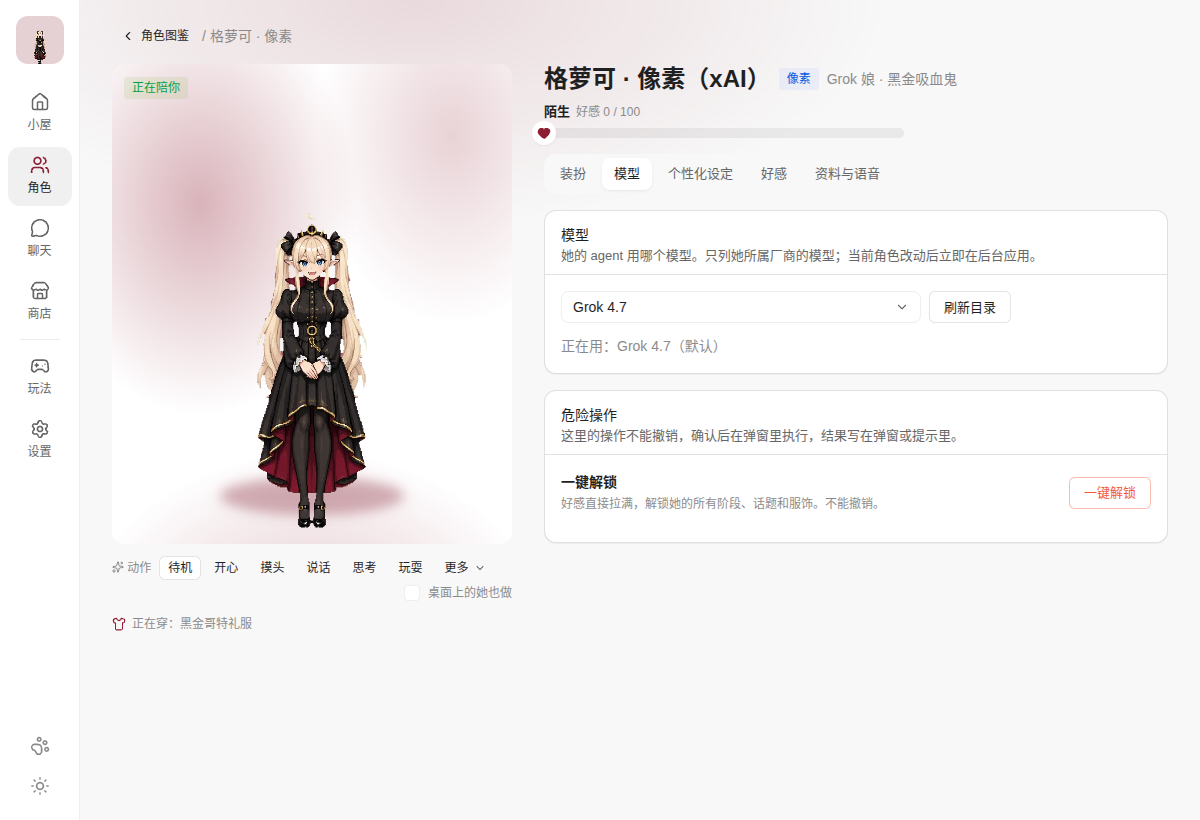
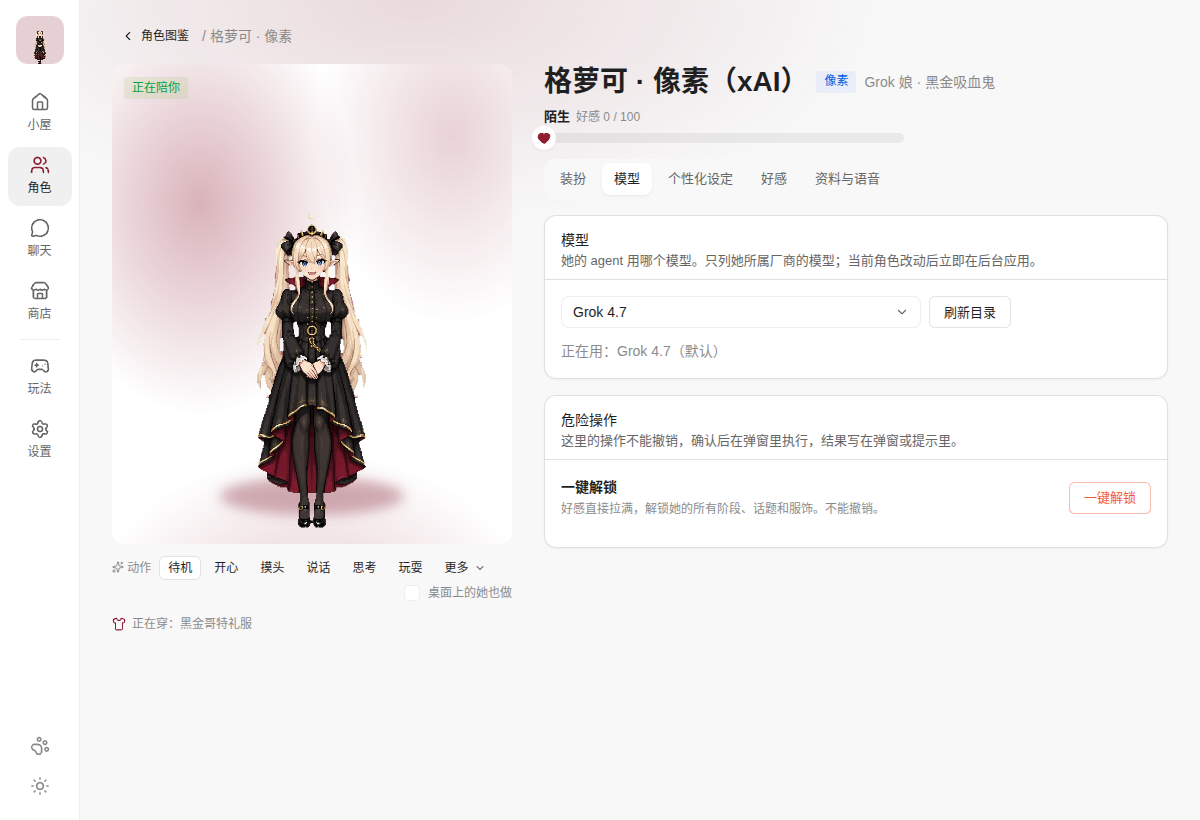
📸 docs(admin-audit): 实施包 B 改后截图按 28px 标题重拍，03-changes 同步（T-2819）

diff --git a/docs/admin-audit/03-changes.md b/docs/admin-audit/03-changes.md
@@ -16,7 +16,7 @@
 | --- | --- | --- | --- | --- |
 | B01 | 对象模型「角色（base）→ 形象（角色包）→ 服饰」：`groupRoster` 把每套形象一行的 roster 收成每位角色一组；全窗口计数统一「N 位角色 · M 套形象」（`countLabel` / `metCount`）；图鉴**一位角色一张卡**（卡片右上「N 套形象」），她的其他形象在详情 → 装扮 → 新增的「形象」区（`LookPicker`，每套一张小卡，链接到那套的页面）；商店提示改为「还有 N 套形象可以下载」；角色包页标题「5 位角色 · 17 套形象（导入 0 套；含 4 套 18+，没开成人向内容时不在图鉴里）」，解释与图鉴 13 套的差 | CHAR-01 | W-03「状态词和数字一致」<https://design.lobe.li/rules/W-03>；P-02 分组 <https://design.lobe.li/rules/P-02>；M-02 <https://design.lobe.li/models/M-02> | `admin/src/console/roster-model.ts`、`pages/character/RosterPage.tsx`、`DetailPage.tsx`（`LookPicker`）、`PacksPage.tsx` |
 | B02 | 详情路由 `#/characters/:id/:tab`（`looks` / `model` / `role` / `affection` / `about`）：深链、刷新、返回都落在原标签；换标签用 `replaceHash`（不增历史记录，「返回」回到来的那一页）；旧标签名 `voice` → `about`、`outfits` → `looks`（`toDetailTab`） | CHAR-02 | P-02「状态进 URL」<https://design.lobe.li/rules/P-02>；P-03 <https://design.lobe.li/rules/P-03>；M-03 #3 <https://design.lobe.li/models/M-03> | `DetailPage.tsx`（`useDetailTab`）、`roster-model.ts`、`admin/src/useHashPath.ts` |
-| B03 | 页头压成一行身份（名字 + 类型 + 称号）+ 一行紧凑好感（`HeartMeter compact`，点它去「好感」标签）；口头禅 / 简介 / 喜欢移进「资料与语音」；「好感」标签不再画第二条好感条，只写本标签独有的「离『熟悉』还差 15 · 今天 +0 / 上限 12」和阶段路线图。1200×820 下标签栏 y≈405 → y≈173 | CHAR-03 | W-07「同一个数在页面上重复出现 → 删」<https://design.lobe.li/rules/W-07>；P-03 第一屏优先级 <https://design.lobe.li/rules/P-03> | `DetailPage.tsx`（`Detail`、`AffectionTab`） |
+| B03 | 页头压成一行身份（名字 + 类型 + 称号）+ 一行紧凑好感（`HeartMeter compact`，点它去「好感」标签）；口头禅 / 简介 / 喜欢移进「资料与语音」；「好感」标签不再画第二条好感条，只写本标签独有的「离『熟悉』还差 15 · 今天 +0 / 上限 12」和阶段路线图。1200×820 下标签栏 y≈405 → y≈178 | CHAR-03 | W-07「同一个数在页面上重复出现 → 删」<https://design.lobe.li/rules/W-07>；P-03 第一屏优先级 <https://design.lobe.li/rules/P-03> | `DetailPage.tsx`（`Detail`、`AffectionTab`） |
 | B04 | 「语音」「资料」合并为「资料与语音」：资料卡（口头禅、简介、喜欢、厂商、角色包、素材署名；删去与「模型」「装扮」重复的模型 / 形象行）+ 语音卡（语音包、音色署名、角色音色）带「管理语音包」按钮 → `#/voicepacks`（不再写「设置 → 语音包」文字路径）；标签 6 → 5 | CHAR-04 | M-03 #6 识别优于回忆 <https://design.lobe.li/models/M-03>；W-07 <https://design.lobe.li/rules/W-07> | `DetailPage.tsx`（`AboutTab`） |
 | B05 | 详情页底 `DangerZone`（`Surface`「危险操作」，每项说明在左、danger 按钮在右）：删除下载（只对下载的形象）/ 一键解锁（只对已遇见）/ 清空个性化设定（只在有设定时）；三项都走 A 的共享件 `askAsync`（S-7：弹窗里执行，失败原因写在弹窗里、弹窗不关，成功才关并 toast 实际结果）。「一键解锁」从好感路线图下面、「删除下载」从和「授权信息」并排的位置、「清空」从保存按钮旁移走 | CHAR-05 | P-03「危险操作和普通操作同色同位」<https://design.lobe.li/rules/P-03>；P-05「高风险项单独一区」<https://design.lobe.li/rules/P-05>；C-15 <https://design.lobe.li/rules/C-15> | `pages/character/DangerZone.tsx`、`DetailPage.tsx`（`useDanger`） |
 | B06 | 角色不存在：`Empty`「找不到这位角色」+ 原因「没有角色『nobody』：可能删除了她的下载、关掉了成人向内容，或者链接里的名字改过了」+「回角色图鉴」「去商店」 | CHAR-06 | W-05 错误文案 <https://design.lobe.li/rules/W-05>；P-03 必须有的状态 <https://design.lobe.li/rules/P-03>；M-03 #9 <https://design.lobe.li/models/M-03> | `DetailPage.tsx`（`Missing`） |
@@ -58,7 +58,7 @@
 | --- | --- | --- |
 | 图鉴：13 张按形象平铺、11 张剪影加锁 → 5 张按角色、彩色、一个动作 | `B-before-characters-list-light.png` | `B-after-characters-list-light.png` |
 | 筛选 Live2D → 进详情 → 返回：回到「全部」→ 仍是 `?kind=live2d` | `B-before-characters-filter-after-back.png` | `B-after-characters-filter-live2d.png`、`B-after-characters-filter-after-back.png` |
-| 详情首屏：标签栏 y≈405 → y≈173；「形象」区 | `B-before-detail-looks-light.png` | `B-after-detail-looks-light.png`、`B-after-detail-multilook.png` |
+| 详情首屏：标签栏 y≈405 → y≈178；「形象」区 | `B-before-detail-looks-light.png` | `B-after-detail-looks-light.png`、`B-after-detail-multilook.png` |
 | 好感标签：两条好感条 + 正文里的一键解锁 → 一条（页头）+ 路线图 + 页底危险操作 | `B-before-detail-tab-好感.png` | `B-after-detail-tab-好感.png` |
 | 刷新后标签：回到「装扮」→ 仍在「模型」 | `B-before-detail-model-after-reload.png` | `B-after-detail-model-after-reload.png` |
 | 深链 `#/characters/grok/affection` | `B-before-detail-affection-deeplink.png`（落在装扮） | `B-after-detail-affection-deeplink.png` |
